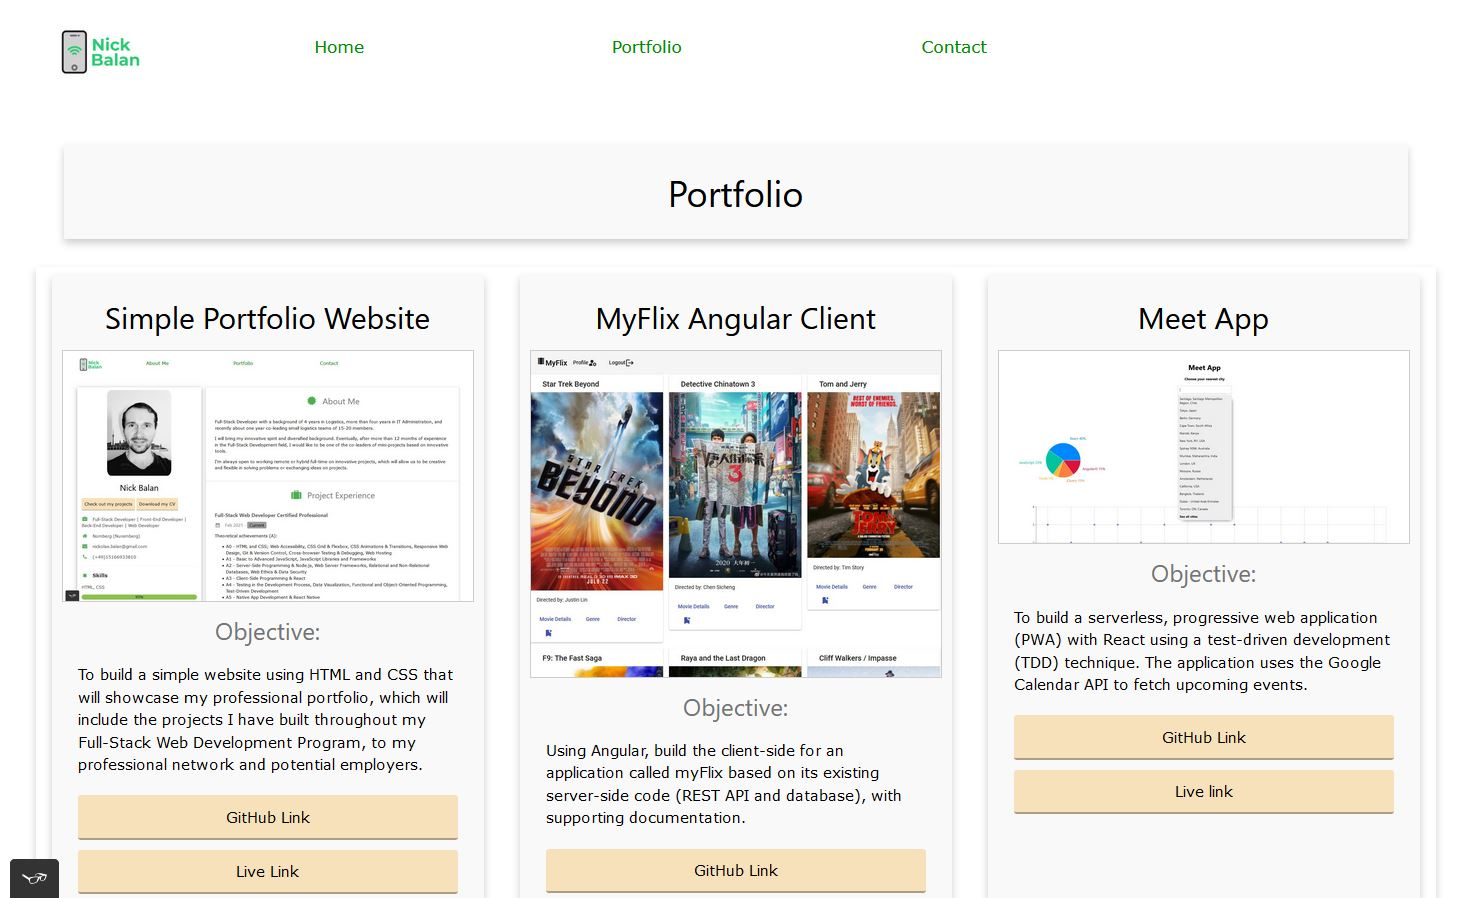
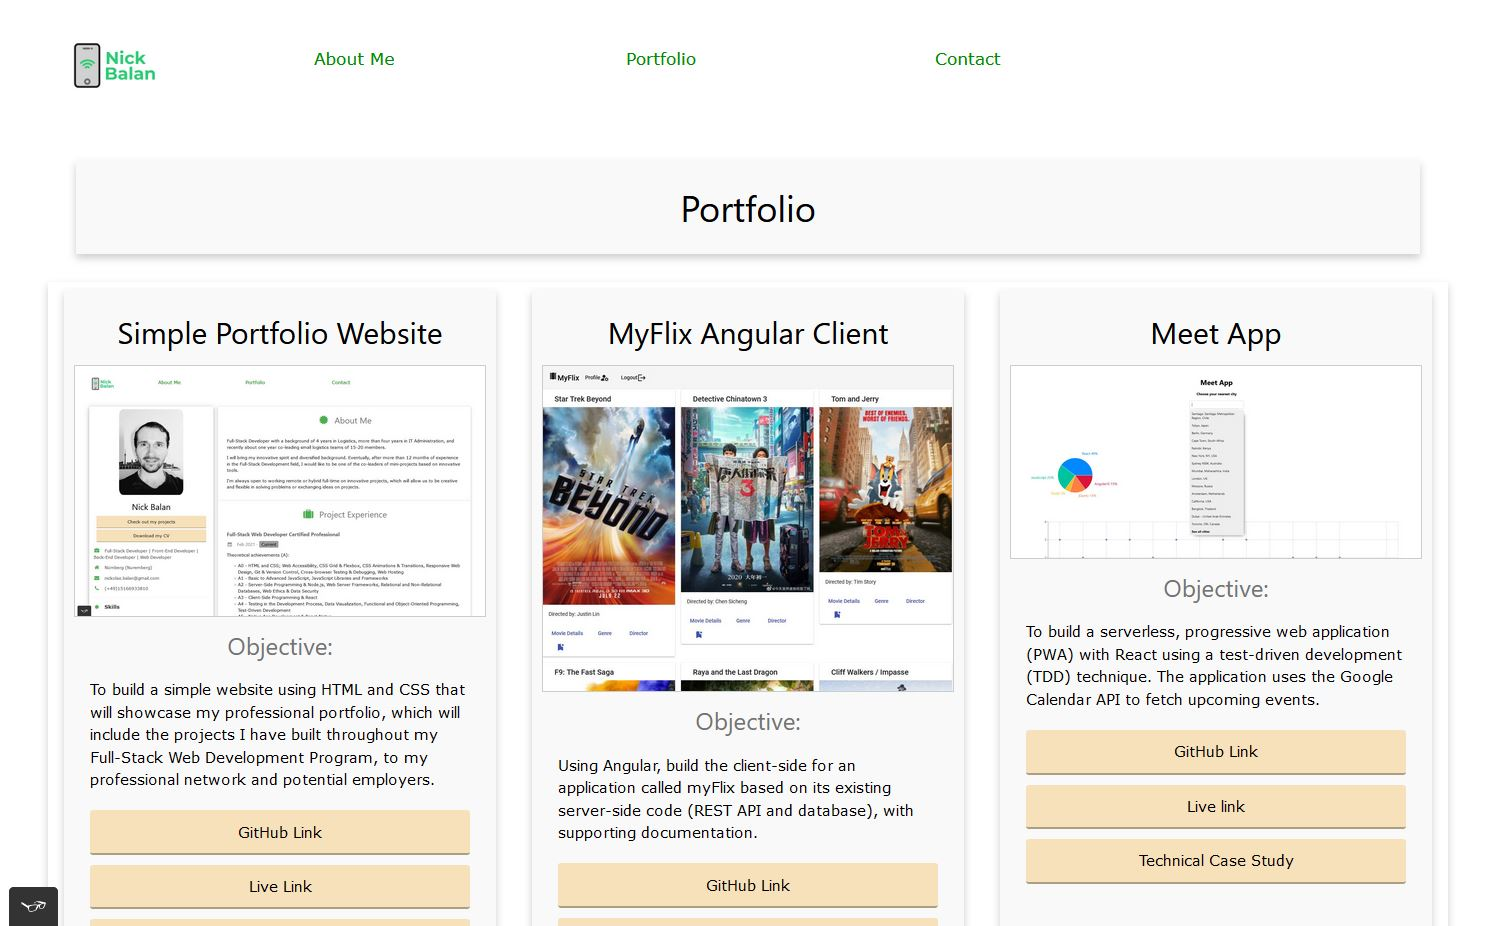
Updated my case study on the ReadMe page. V2

diff --git a/portfolio.html b/portfolio.html
@@ -75,6 +75,9 @@
                     <a href="https://nickbalan.github.io/portfolio-website/" class="button" target="_blank">
                         Live Link
                     </a>
+                    <a href="https://github.com/nickbalan/portfolio-website/blob/main/README.md" class="button" target="_blank">
+                        Technical Case Study
+                    </a>
                 </div>
             </div>
             <!-- Child Grid. Container 2 -->
@@ -94,6 +97,9 @@
                     </a>
                     <a href="https://nickbalan.github.io/myflix-angular-client/" class="button" target="_blank">
                         Live Link
+                    </a>
+                    <a href="https://github.com/nickbalan/myflix-angular-client/blob/main/README.md" class="button" target="_blank">
+                        Technical Case Study
                     </a>
                 </div>
             </div>
@@ -115,6 +121,9 @@
                     <a href="https://nickbalan.github.io/meet-app/" class="button" target="_blank">
                         Live link
                     </a>
+                    <a href="https://github.com/nickbalan/meet-app/blob/master/README.md" class="button" target="_blank">
+                        Technical Case Study
+                    </a>
                 </div>
             </div>
             <!-- Child Grid. Container 4 -->
@@ -131,6 +140,9 @@
                     <!-- Add a call-to-action buttons with no decoration link -->
                     <a href="https://github.com/nickbalan/chat-app" class="button" target="_blank">
                         GitHub Link
+                    </a>
+                    <a href="https://github.com/nickbalan/chat-app/blob/master/README.md" class="button" target="_blank">
+                        Technical Case Study
                     </a>
                 </div>
             </div>
@@ -152,6 +164,9 @@
                     <a href="https://nickbalan.github.io/simple-js-app/" class="button" target="_blank">
                         Live Link
                     </a>
+                    <a href="https://github.com/nickbalan/simple-js-app/blob/master/README.md" class="button" target="_blank">
+                        Technical Case Study
+                    </a>
                 </div>
             </div>
             <!-- Child Grid. Container 6 -->
@@ -169,11 +184,17 @@
                     <a href="https://github.com/nickbalan/myFlix-client" class="button" target="_blank">
                         GitHub Link
                     </a>
+                    <a href="https://github.com/nickbalan/myFlix-client/blob/main/README.md" class="button" target="_blank">
+                        Technical Case Study
+                    </a>
                 </div>
             </div>
             <!-- Child Grid. Container 7 -->
             <div class="grid__item">
                 <h2>MyFlix API</h2>
+                <a target="_blank" href="img/Livescreen/MyFlix_API_Livescreen_1.JPG">
+                    <img src="img/Livescreen/MyFlix_API_Livescreen_1.JPG" alt="MyFlix_API Endpoint Documentation" class="project-screen">
+                </a>
                 <div class="container">
                     <h3>Objective:</h3>
                     <p>
@@ -184,19 +205,28 @@
                     <a href="https://github.com/nickbalan/myflix" class="button" target="_blank">
                         GitHub Link
                     </a>
+                    <a href="https://github.com/nickbalan/myflix/blob/main/README.md" class="button" target="_blank">
+                        Technical Case Study
+                    </a>
                 </div>
             </div>
             <!-- Child Grid container 8 -->
             <div class="grid__item">
-                <h2>To-Do List App</h2>
+                <h2>Simple To-Do List App using ReactJS & TypeScript</h2>
+                <a target="_blank" href="img/Livescreen/React_TypeScript_Livescreen_1.JPG">
+                    <img src="img/Livescreen/React_TypeScript_Livescreen_1.JPG" alt="React with TypeScript App" class="project-screen">
+                </a>
                 <div class="container">
                     <h3>Objective:</h3>
                     <p>
-                    This simple To-Do List App was created as a practical exercise of using JQuery instead of Vanilla Js.
+                    A Simple To-Do List App demonstrates that TypeScript is not limited to Angular or plain JavaScript projects; we may also use it in ReactJS projects. Typescript provides the tools to define strict types for ReactJS components, props, states, and event handlers.
                     </p>
                     <!-- Add a call-to-action buttons with no decoration link -->
-                    <a href="https://github.com/nickbalan/to-do-list-app" class="button" target="_blank">
+                    <a href="https://github.com/nickbalan/react-typescript" class="button" target="_blank">
                         GitHub Link
+                    </a>
+                    <a href="https://github.com/nickbalan/react-typescript/blob/todo-list-v2/README.md" class="button" target="_blank">
+                        Technical Case Study
                     </a>
                 </div>
             </div>

diff --git a/index.html b/index.html
@@ -94,11 +94,16 @@
               />
               <div class="w3-container w3-text-black">
                 <h2>Nick Balan</h2>
-                <a href="portfolio.html" class="button cv-button">
+                <a
+                  href="portfolio.html"
+                  target="_blank"
+                  class="button cv-button"
+                >
                   Check out my projects
                 </a>
                 <a
                   href="files/Nick_Balan_EN--Resume_V10_1.pdf"
+                  target="_blank"
                   class="button cv-button"
                   download
                 >

diff --git a/README.md b/README.md
@@ -1,4 +1,4 @@
-# Simple Portfolio Website
+# Simple Portfolio Website. Technical Case Study
 
 ## Objective 
 To build a simple responsive website using just HTML and CSS that showcases my professional portfolio, which will include the projects I've built throughout my Full-Stack Web Development Program, to my professional network and potential employers.
@@ -16,24 +16,24 @@ To build a simple responsive website using just HTML and CSS that showcases my p
 ## User Stories 
 As a user, I should be able to view the professional portfolio website and navigate between web pages on both mobile and desktop devices. 
 
-## Key Features 
-- A homepage/landing page with a short introduction and link(s) to work examples 
-- An about page/section with crucial information about me as an individual, my relevant skills, and the tools or programming language(s) I used 
-- A section with my work examples that is part of my homepage (e.g., in a grid) or on a separate work page 
-- A contact section — either as a section on each page (e.g., in the footer) or a separate contact page.
-
-## Technical Requirements 
-- The website must consist of at least 3 interconnected HTML pages 
-- The website must use one external CSS-file in which all styles are defined 
+## Technical Requirements & Solutions 
+- The website must consist of at least three interconnected HTML pages 
+- The website must use at least one CSS file in which all styles are defined 
 - The website must use either CSS variables or a CSS preprocessor
 - The website’s code must be hosted in a Git repository on GitHub
-- The website can be deployed on a server 
+- The website must be deployed on a server like GitHub Pages
 - All the code must be valid
   - The HTML files must pass validation on the [Markup Validation Service](https://validator.w3.org/) 
   - All colors used need to pass the [AA Accessibility Guidelines](https://contrastchecker.com/)
 - The website must work on the latest Chrome, Firefox, Safari, Edge, and Opera browser versions as well as on IE11
 - The website must work on all screen sizes (including mobile and tablet) between 1920px and 320px in width
 - The website must work with keyboard, mouse, and touch inputs. 
+
+## Key Features 
+- A homepage/landing page with a short introduction and link(s) to work examples 
+- An about page/section with crucial information about me as an individual, my relevant skills, and the tools or programming language(s) I used 
+- A section with my work examples that is part of my homepage (e.g., in a grid) or on a separate work page 
+- A contact section — either as a section on each page (e.g., in the footer) or a separate contact page.
 
 ## Link to live hosted Simple Portfolio Website
 Check out the [Simple Portfolio Website](https://nickbalan.github.io/portfolio-website/) page.
